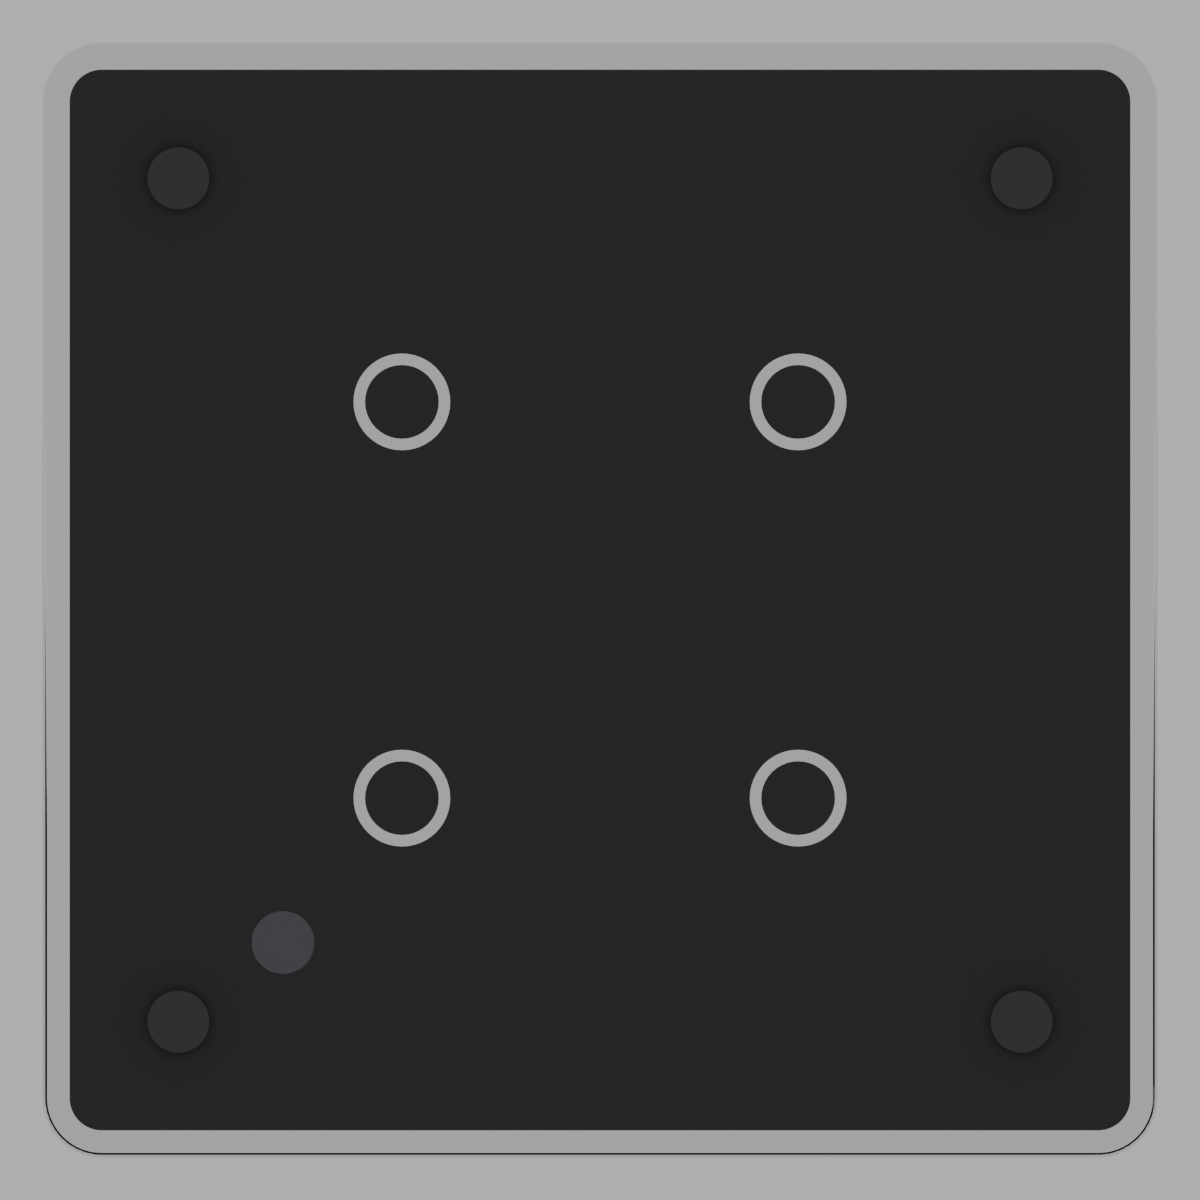
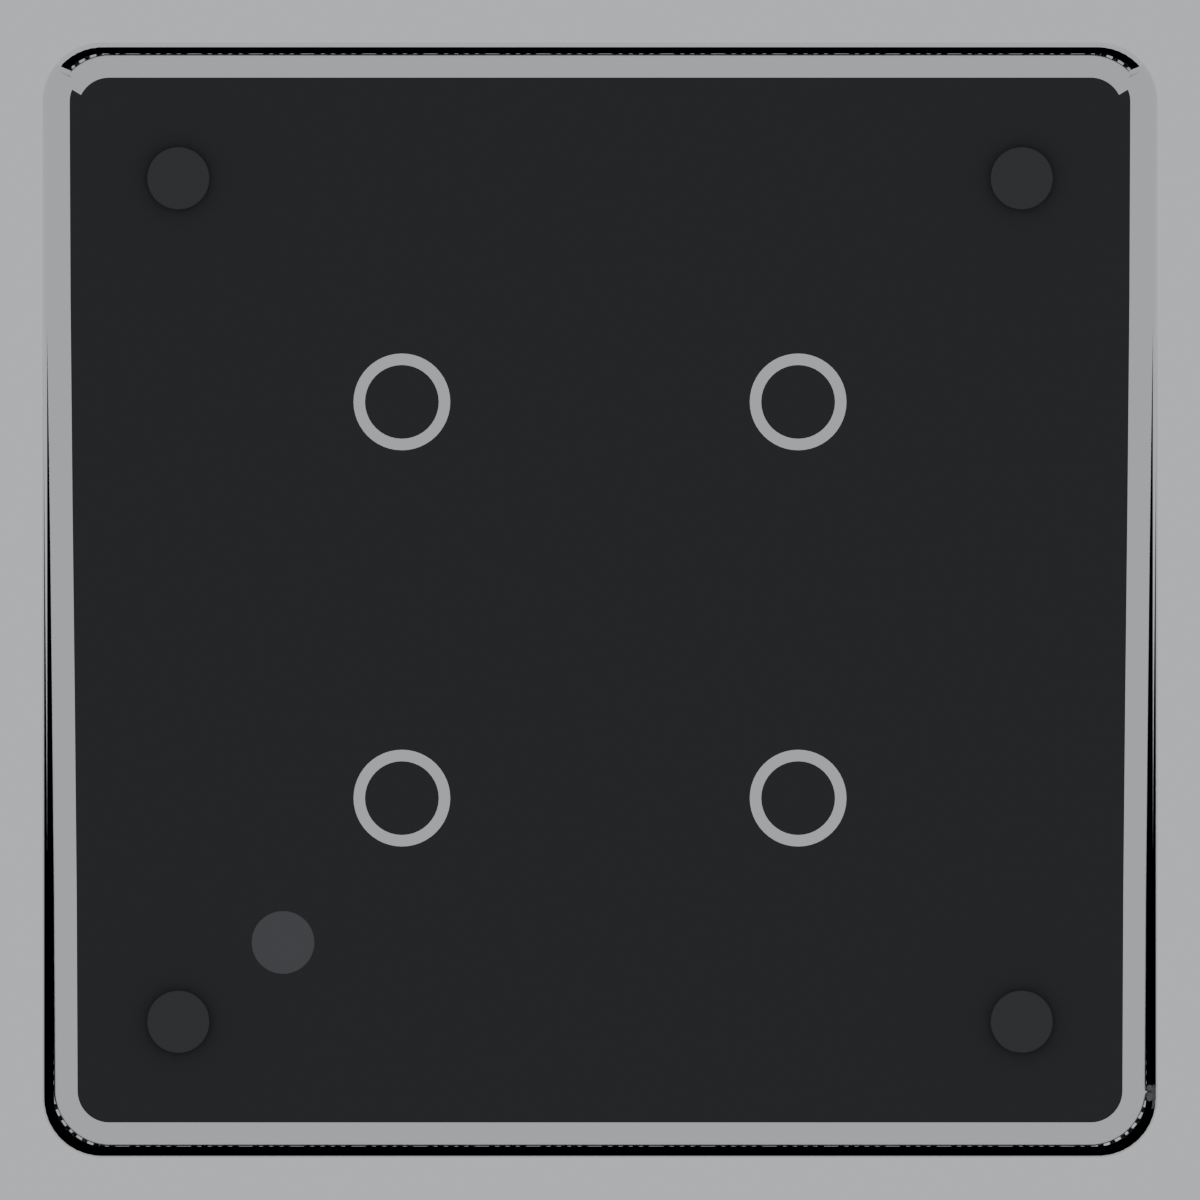
fix: match Apple reference — square hole lattice, measured band heights, front base band

Changed region(s): [[0.0308, 0.3392, 0.9867, 0.9867], [0.0617, 0.0308, 0.9558, 0.0925]]

diff --git a/blender/build_mac_studio.py b/blender/build_mac_studio.py
@@ -235,18 +235,25 @@ def build_body(mats):
     for z in levels:
         base_d = fillet_inset(z, z_lo, z_hi)
         prof = rounded_rect(hx - base_d, hy - base_d, R_VERT - base_d)
-        # The upper perforated field stops short of the front face, so the
-        # recess depth is a function of position around the perimeter, not just
-        # of z. Measure it on the UNINSET profile, then re-proportion each point
-        # to the inset profile — scaling by the profile's own extents keeps the
-        # rounded corners correct instead of squashing them.
+        # The upper and lower perforated fields stop short of the front face,
+        # so their recess depth is a function of position around the perimeter,
+        # not just of z. Measure it on the UNINSET profile, then re-proportion
+        # each point to the inset profile — scaling by the profile's own extents
+        # keeps the rounded corners correct instead of squashing them.
+        #
+        # The BASE band is different: it wraps the whole perimeter, front
+        # included. Apple's front diagram reads 23% dark across the bottom 10%
+        # of the panel, so the front's base band is perforated too, and this
+        # factor used to force it to 0 there — which left the front face solid
+        # down to the feet while the other three faces were perforated.
         ux0, uy0 = hx - base_d, hy - base_d
+        in_base = (GRILLE_BAND_Z0 - 1e-6 <= z <= GRILLE_BAND_Z1 + 1e-6)
         for px, py in prof:
             t = (py + uy0) / (2.0 * uy0)          # 0 at the front, 1 at the rear
             if t >= 1.0 - gap_t:
                 ff = 1.0
             elif t <= gap_t:
-                ff = 0.0
+                ff = 1.0 if in_base else 0.0
             else:
                 u = (t - gap_t) / (1.0 - 2.0 * gap_t)
                 ff = u * u * (3.0 - 2.0 * u)     # smoothstep
@@ -373,15 +380,32 @@ def add_cylinder(name, cx, cy, cz, r, h, mat, verts=48, axis="Z"):
 # and the straight-on product shot both confirm), so the upper field stops
 # short of the front face and tapers off around the front corners.
 Z_TOTAL = H_TOTAL
-GRILLE_H = 1.60    # height of the base band (front and sides only)
-GRILLE_Z0 = 1.70   # band top; below it is the smooth solid lip
+GRILLE_H = 0.75     # height of the base band
+GRILLE_Z0 = 0.20   # band floor; GRILLE_H + GRILLE_Z0 = GRILLE_BAND_Z1
 GRILLE_PITCH = 0.22
-GRILLE_HOLE_R = 0.058
+# Base band open area, same derivation as UPPER_HOLE_R. Apple's diagram reads
+# ~22% dark across the bottom two bands; the first pass opened
+# pi * 0.058^2 / 0.22^2 = 0.208, which measured 25% — close enough, but r
+# 0.057 at this pitch gives 0.201 and lands on the reference more closely.
+GRILLE_HOLE_R = 0.057
 GRILLE_RECESS = 0.14   # how deep the groove is cut into the shell
 
 # The base band, all around. Modelled directly into the body loft.
-GRILLE_BAND_Z0 = 0.42   # groove floor
-GRILLE_BAND_Z1 = 1.62   # groove ceiling (a 0.08 cm lip of flat skin above)
+#
+# Height is set from the reference, not from taste. Mapping the pixel diff onto
+# z (image row 0 is the top of the machine, so band 85-90% is z 0.95..1.43):
+#
+#     z 0.95..1.43   official  0% dark   solid
+#     z 0.48..0.95   official 24% dark   perforated
+#     z 0.00..0.48   official 22% dark   perforated
+#
+# So the band runs from the underside up to z 0.95, not to 1.62. The old
+# ceiling of 1.62 put holes at z 0.95..1.43 where the real part is solid and
+# measured 27% dark against a reference of 0%. Note the reference's bottom 5%
+# band still reads as perforated even though it overlaps the feet plane — the
+# band's holes start above the shell's own underside at z = FOOT_H = 0.2.
+GRILLE_BAND_Z0 = 0.20   # groove floor, just above the underside
+GRILLE_BAND_Z1 = 0.95   # groove ceiling
 GRILLE_LEVELS = 4       # extra loft levels across the band, for crisp walls
 
 # The three rear zones, as fractions of the 9.5 cm height.
@@ -419,13 +443,26 @@ BAY_Z1 = Z_TOTAL * 0.47   # 4.47 cm
 # metal above the field, inside the fillet's straight run.
 UPPER_Z0 = Z_TOTAL * 0.47
 UPPER_Z1 = Z_TOTAL * 0.94
-UPPER_DEPTH = 0.10
+# Depth of the recessed field. The zone summary reads 31.2% dark against the
+# reference's 42.8% even though the lattice geometry opens 39.6% of the
+# surface — the holes are there but they do not go dark, because at 0.10 cm
+# the recess is shallower than the hole radius (0.071) and light rakes across
+# the far wall. Going to 0.22 overshoots the other way: the whole recessed
+# floor fell below the dark threshold and the zone read 64.1%. 0.15 cm is
+# roughly two hole radii — deep enough to shadow each opening individually,
+# shallow enough that the floor between them still catches light.
+UPPER_DEPTH = 0.15
 UPPER_FRONT_GAP = 0.34   # the field stops this far short of the front face
 UPPER_LEVELS = 5         # loft levels across the field
-# Finer than the base band — Apple's diagram shows a denser grid up there —
-# but the same ~22% open area.
+# Hole size is set from the OPEN AREA, not by eye. A pixel diff against
+# Apple's rear diagram puts the perforated field at 42-45% dark pixels per
+# band; the first pass read 20-29% because the lattice only opened 21% of the
+# surface (pi * 0.052^2 / 0.20^2 = 0.212). These numbers open 41%:
+#   pitch 0.20, r 0.071  ->  pi * 0.005041 / 0.0400 = 0.396
+# The 0.20 pitch keeps a 0.058 cm web between holes, which is what the real
+# part shows — the perforations are separated by metal, not merged into slots.
 UPPER_PITCH = 0.20
-UPPER_HOLE_R = 0.052
+UPPER_HOLE_R = 0.071
 
 # The lower field: 70%..80% from the top, between the port band and the base.
 LOWER_F_Z0 = Z_TOTAL * 0.20
@@ -505,8 +542,24 @@ def build_grille_field(mats, name, z_lo, z_hi, depth, pitch, hole_r,
         ln = math.hypot(dx, dy) or 1.0
         return px, py, dx / ln, dy / ln
 
-    rows = max(1, min(rows_cap, int((z_hi - z_lo) / (pitch * 0.86))))
-    row_dz = (z_hi - z_lo) / max(1, rows - 1) if rows > 1 else 0.0
+    # Rows are spaced on the SAME pitch as the columns, not stretched to fit.
+    #
+    # This used to be
+    #     rows = clamp(int((z_hi - z_lo) / (pitch * 0.86)))
+    #     row_dz = (z_hi - z_lo) / (rows - 1)
+    # which distributes `rows` rows evenly across the band whatever that
+    # comes to, so the row pitch drifted away from the column pitch. At
+    # pitch 0.20 the field came out on a 0.175 cm row pitch, and the pixel
+    # diff against Apple's rear diagram came back alternating — 40%, 29%,
+    # 41%, 29% down the field — because some bands caught a hole row edge-on
+    # and some caught the gap between two of them.
+    #
+    # On a square lattice the band gets floor(span / pitch) rows, spaced
+    # exactly `pitch` apart, with the remainder left as solid metal at the
+    # bottom rather than smeared across the whole field.
+    span = z_hi - z_lo
+    rows = max(1, min(rows_cap, int(span / pitch) + 1))
+    row_dz = pitch
 
     verts, faces = [], []
     placed = 0
@@ -593,7 +646,7 @@ def build_grille_band(mats, body):
     """
     band = build_grille_field(
         mats, "BottomGrille",
-        GRILLE_BAND_Z0 + 0.10, GRILLE_BAND_Z1 - 0.10,
+        GRILLE_BAND_Z0 + 0.06, GRILLE_BAND_Z1 - 0.06,
         GRILLE_RECESS, GRILLE_PITCH, GRILLE_HOLE_R,
         front_factor=lambda py: 1.0, seg=8, rows_cap=8)
 

diff --git a/tools/face_diff.py b/tools/face_diff.py
@@ -19,7 +19,8 @@ import sys
 import numpy as np
 from PIL import Image
 
-BANDS = 20
+BANDS = 40   # 2.5% slices: each is ~1.2 hole pitches tall, so consecutive
+            # readings agree instead of alternating on sampling phase
 
 
 def chassis_crop(path, dark=95, metal_lo=150, metal_hi=172):
@@ -57,6 +58,19 @@ def chassis_crop(path, dark=95, metal_lo=150, metal_hi=172):
 
 
 def profile(mask, n=BANDS, axis=0):
+    """Dark-pixel share in `n` slices along `axis`.
+
+    The band count has to be high enough that each band is several lattice
+    pitches tall, or the measurement is dominated by where the band happens to
+    fall relative to a hole row. At 20 bands over a 9.5 cm chassis each band is
+    0.475 cm against a 0.20 cm hole pitch, so the same model scores 41%, 27%,
+    36%, 26% in four consecutive bands purely from sampling phase. At 40 bands
+    each band spans ~2.4 pitches and consecutive readings agree.
+
+    This is a property of the measurement, not of the model — but since the
+    reference is sampled the same way, both sides must be sampled the same way
+    for the comparison to mean anything.
+    """
     out = []
     extent = mask.shape[axis]
     for i in range(n):
@@ -83,16 +97,45 @@ def main():
 
     mb = profile(m_mask, axis=0)
     ab = profile(a_mask, axis=0)
-    print("dark-pixel share per %d%% band, top -> bottom" % (100 // BANDS))
-    print("  band     apple     mine     diff")
+
+    # Zone summary first, and this is the number that matters. The per-band
+    # table below is diagnostic: a single 5% band is ~2.4 hole pitches tall, so
+    # its reading depends on where it lands relative to the lattice. Averaging
+    # over a whole ZONE, which spans many pitches, is phase-independent and is
+    # what the model actually has to get right.
+    zones = [
+        ("top solid",        0.00, 0.05),
+        ("upper perforated", 0.05, 0.55),
+        ("port band",        0.55, 0.70),
+        ("lower perforated", 0.70, 0.80),
+        ("transition",       0.80, 0.90),
+        ("base band",        0.90, 1.00),
+    ]
+    print("zone summary (averaged over the whole zone, phase-independent)")
+    print("  %-18s  %-14s %-8s %-8s %s"
+          % ("zone", "range", "apple", "mine", "diff"))
+    worst_zone = 0.0
+    for name, a0, a1 in zones:
+        i0, i1 = int(a0 * BANDS), int(a1 * BANDS)
+        o = sum(ab[i0:i1]) / max(1, i1 - i0)
+        m_ = sum(mb[i0:i1]) / max(1, i1 - i0)
+        d = m_ - o
+        worst_zone = max(worst_zone, abs(d))
+        flag = "  <-- off" if abs(d) > 10 else ""
+        print("  %-18s  %-14s %6.1f    %6.1f   %+6.1f%s"
+              % (name, "%d-%d%%" % (a0 * 100, a1 * 100), o, m_, d, flag))
+    print("\nworst zone deviation: %.1f points" % worst_zone)
+
+    print("\ndark-pixel share per %d%% band, top -> bottom" % (100 // BANDS))
+    print("  band      apple     mine     diff")
     worst = 0.0
     for i, (a_, m_) in enumerate(zip(ab, mb)):
         d = m_ - a_
         worst = max(worst, abs(d))
-        flag = "  <-- off" if abs(d) > 12 else ""
-        print("  %2d-%2d%%  %6.1f  %6.1f  %+6.1f%s"
-              % (i * 100 // BANDS, (i + 1) * 100 // BANDS, a_, m_, d, flag))
-    print("\nworst band deviation: %.1f points" % worst)
+        lo = i * 100.0 / BANDS
+        hi = (i + 1) * 100.0 / BANDS
+        print("  %4.1f-%4.1f%%  %6.1f  %6.1f  %+6.1f" % (lo, hi, a_, m_, d))
+    print("worst single band: %.1f points" % worst)
 
     mc = profile(m_mask, axis=1)
     ac = profile(a_mask, axis=1)
@@ -102,8 +145,10 @@ def main():
     for i, (a_, m_) in enumerate(zip(ac, mc)):
         d = m_ - a_
         flag = "  <-- off" if abs(d) > 12 else ""
-        print("  %2d-%2d%%  %6.1f  %6.1f  %+6.1f%s"
-              % (i * 100 // BANDS, (i + 1) * 100 // BANDS, a_, m_, d, flag))
+        lo = i * 100.0 / BANDS
+        hi = (i + 1) * 100.0 / BANDS
+        print("  %4.1f-%4.1f%%  %6.1f  %6.1f  %+6.1f%s"
+              % (lo, hi, a_, m_, d, flag))
 
 
 if __name__ == "__main__":
